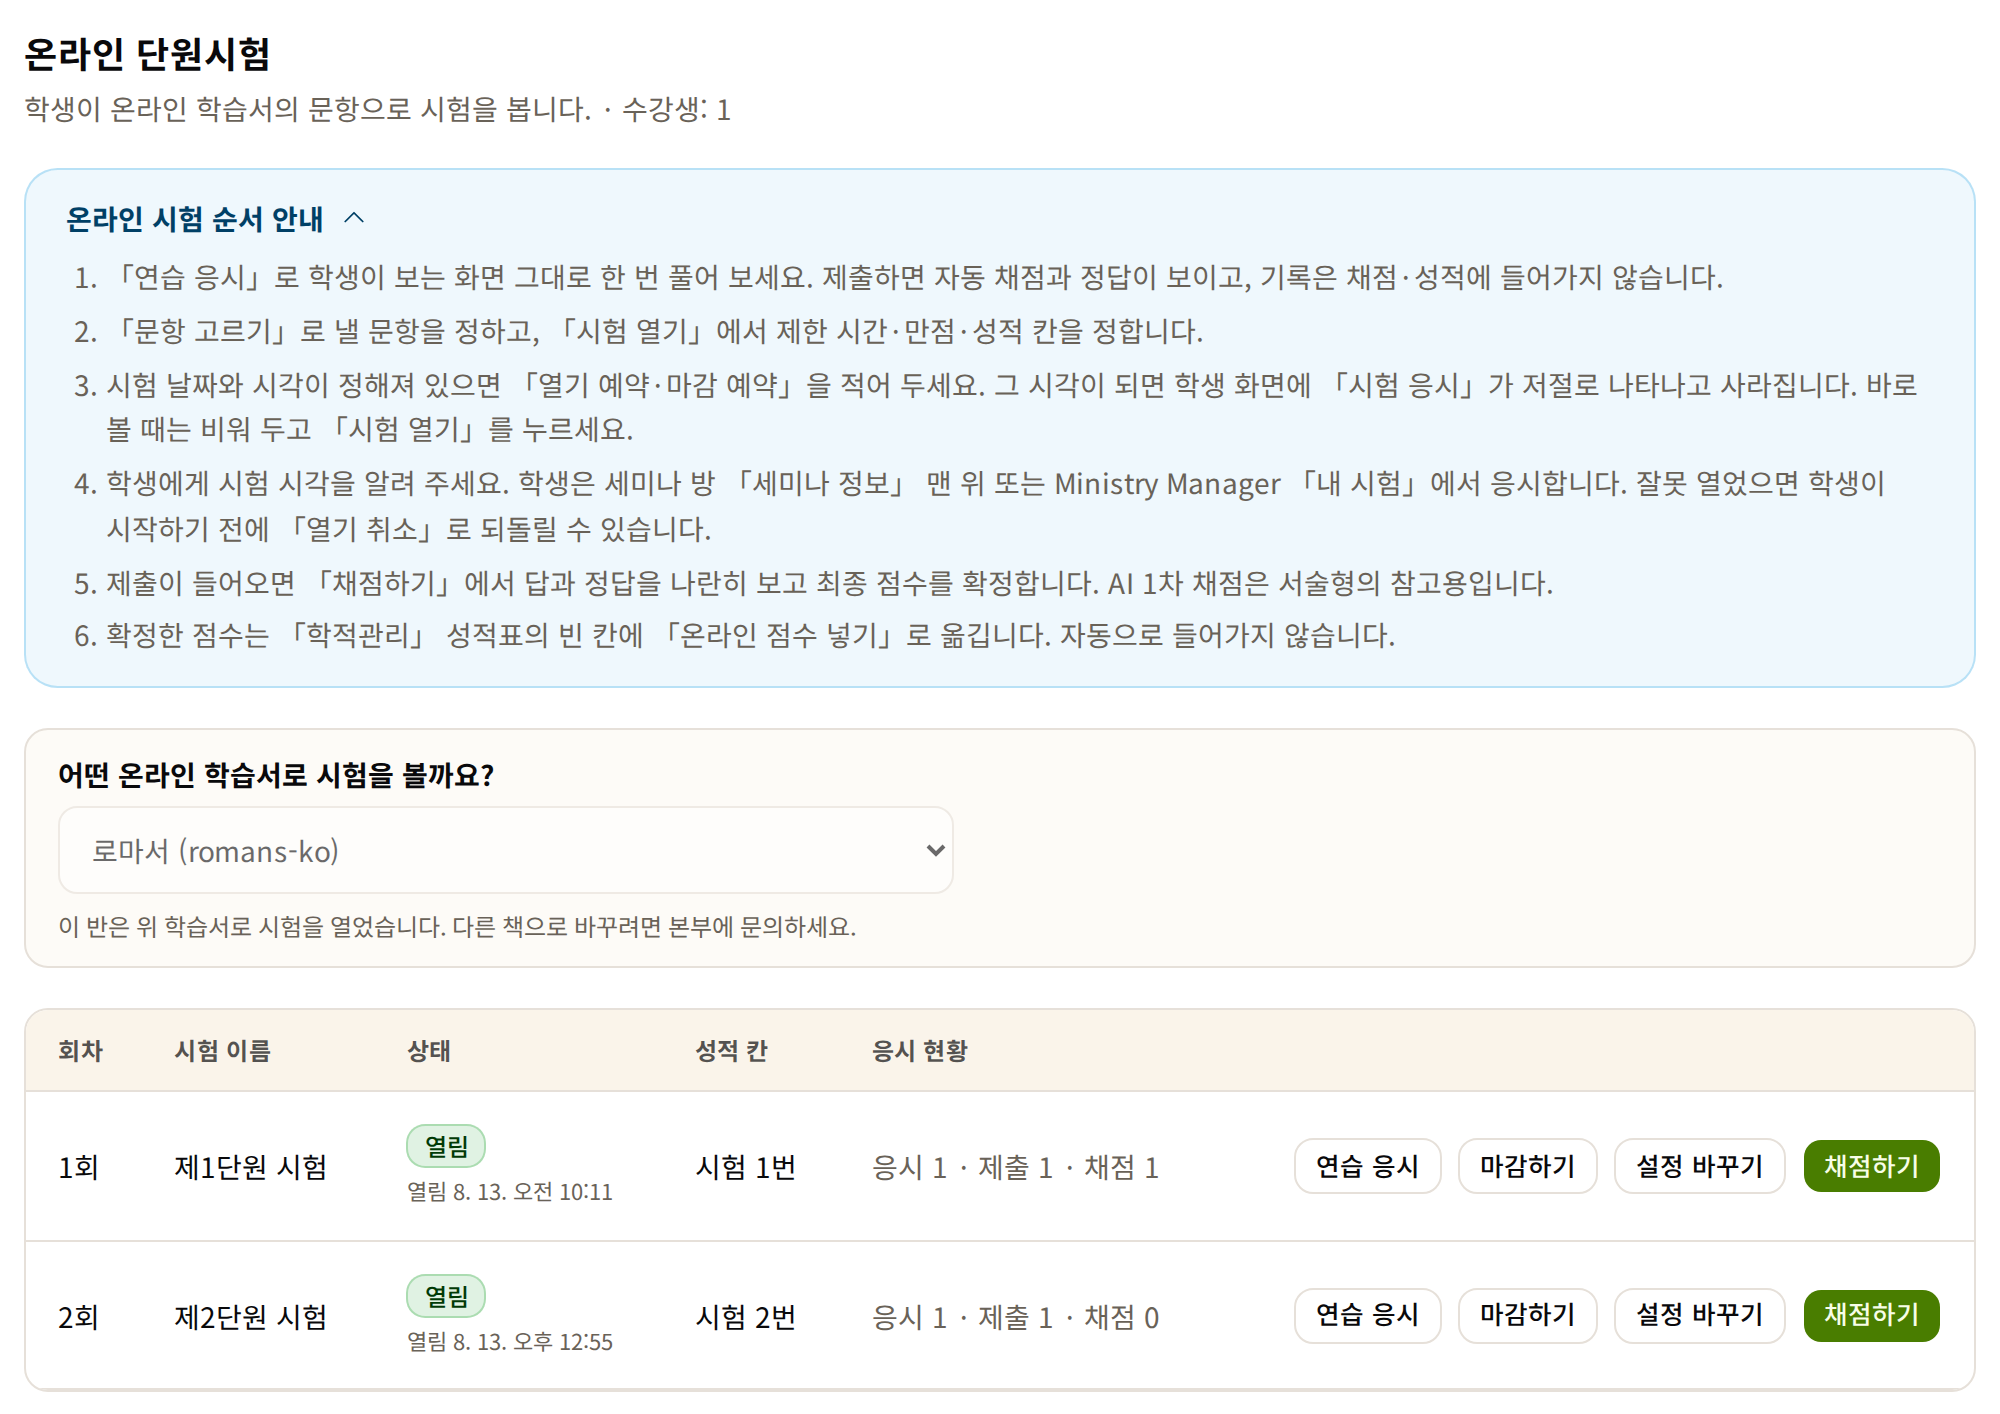
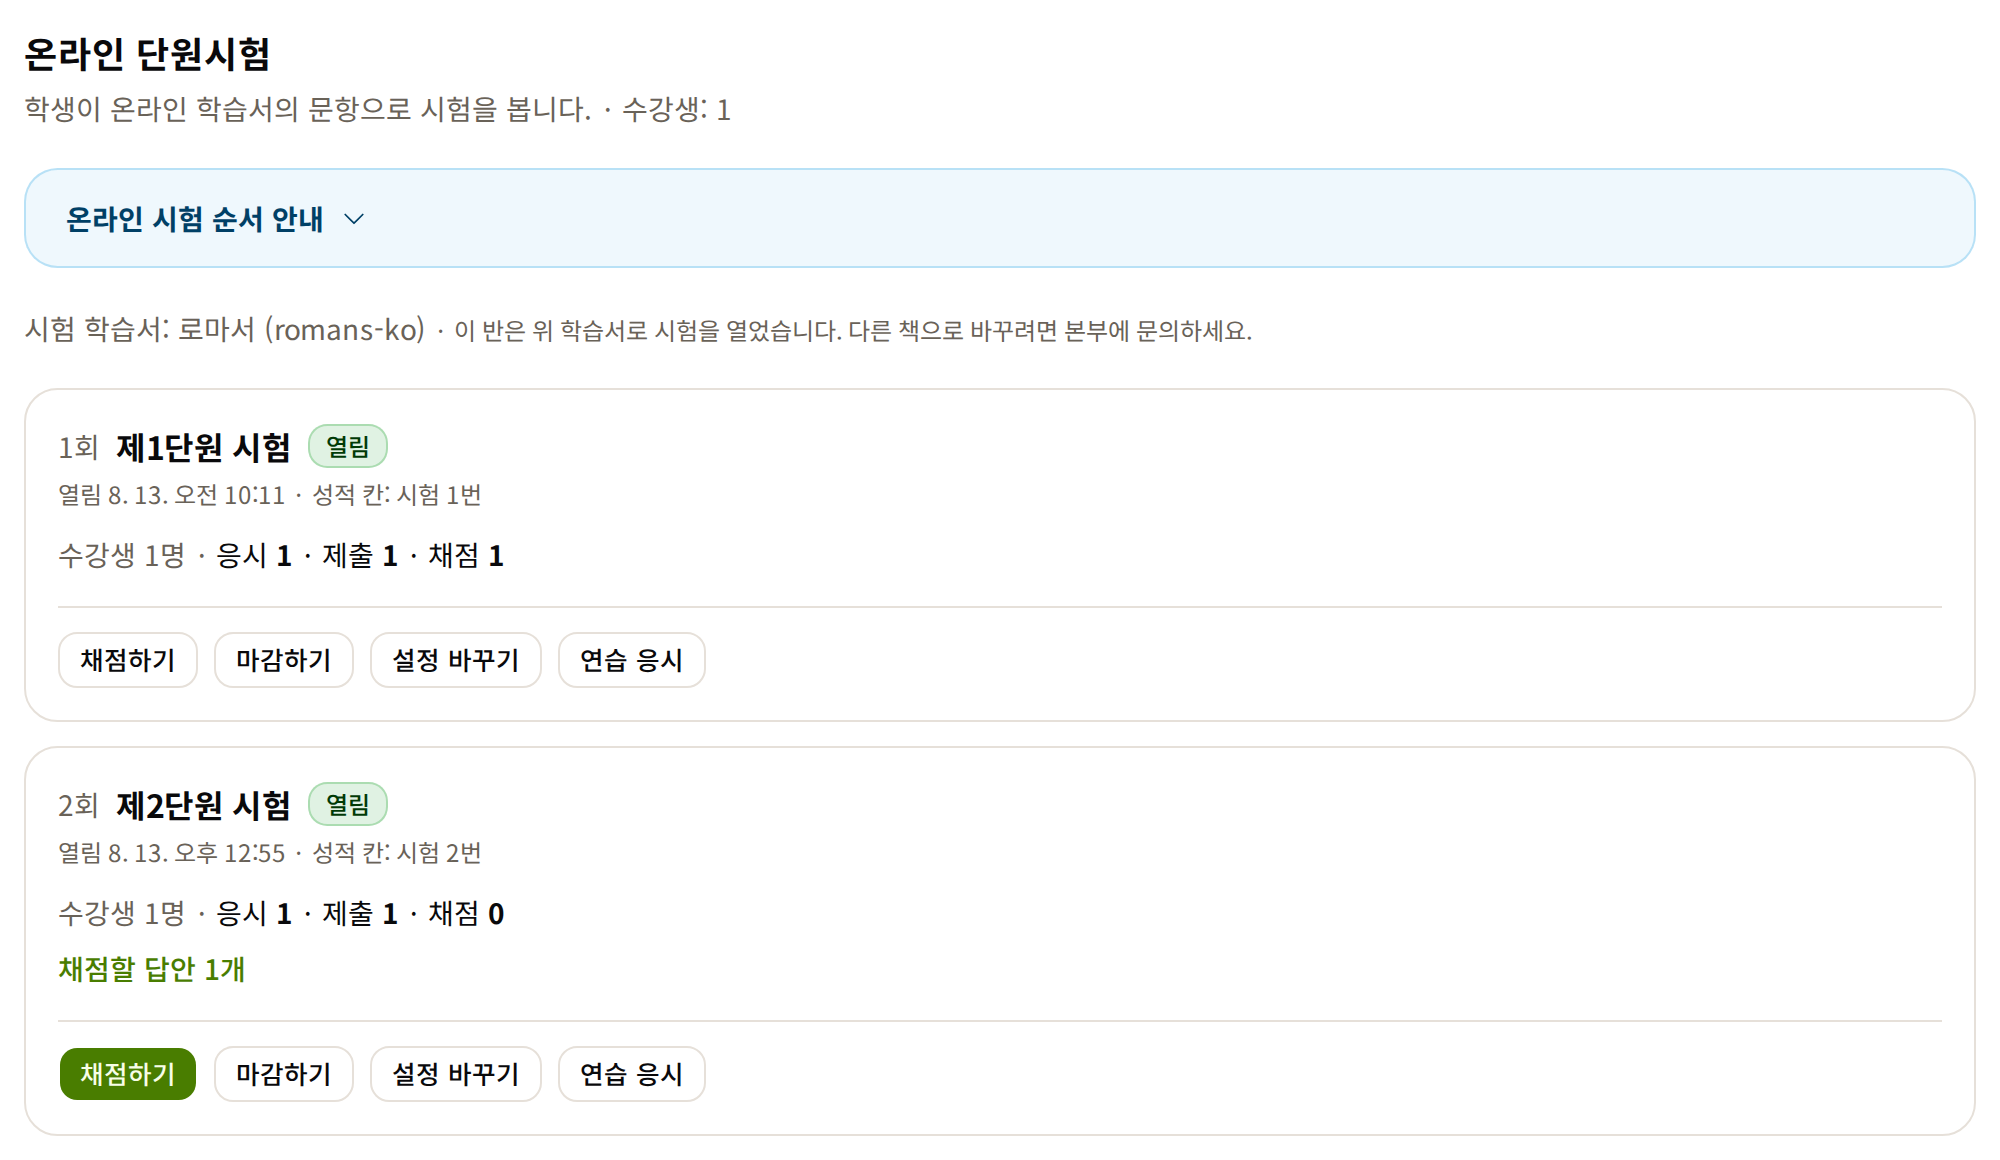
인도자 안내: 온라인 시험 — 회차별 카드 · 성적표 「N명 넣기」 화면으로 다시 (같은 날 LMS 변경 14cb8d3e·7450a8fc 반영) · LMS 안의 링크 안내

diff --git a/lms/exam-guide.html b/lms/exam-guide.html
@@ -300,7 +300,7 @@
       <li id="score">
         <span class="sym">점수를 확정했는데 성적표에 없음</span>
         <span class="why">확정한 점수는 성적표에 <strong>저절로 들어가지 않습니다</strong>.</span>
-        <span class="do">「학적관리」 → 「시험」 → 빈 칸 아래 <span class="btn">온라인 ○○ 넣기</span> (아래 <a href="#fill">4번</a>)</span>
+        <span class="do">「학적관리」 → 「시험」 → 초록 상자의 <span class="btn btn-go">N명 넣기</span> (아래 <a href="#fill">4번</a>)</span>
       </li>
       <li id="retake">
         <span class="sym">학생이 실수로 일찍 제출함</span>
@@ -319,7 +319,7 @@
     <ol class="steps3">
       <li>세미나 방 → <strong>「온라인 시험」</strong> 탭 (인도자에게만 시험을 여는 자리로 보입니다)</li>
       <li>그 회차의 <span class="btn btn-go">시험 열기</span> — 날짜가 정해져 있으면 「열기 예약」에 날짜·시각을 적습니다</li>
-      <li>시험이 끝나면 <span class="btn">마감하기</span> → <span class="btn btn-go">채점하기</span> → 「학적관리」에서 <span class="btn">온라인 ○○ 넣기</span></li>
+      <li>시험이 끝나면 <span class="btn">마감하기</span> → <span class="btn btn-go">채점하기</span> → 「학적관리」 → 「시험」에서 <span class="btn btn-go">N명 넣기</span></li>
     </ol>
     <p style="margin-top:0.8rem">
       <strong>종이 학습서로 공부하는 반도 됩니다</strong> — 같은 과목의 온라인 학습서 문항으로 시험만 온라인으로 엽니다.
@@ -335,13 +335,13 @@
     <p>
       처음 들어가면 <strong>어떤 학습서로 시험을 볼지</strong> 묻습니다 — 우리 반 과목에 맞는 책이 미리 골라져 있습니다.
       한 번 열면 그 책으로 고정되고, 바꾸려면 본부에 문의합니다.
-      탭 맨 위의 「온라인 시험 순서 안내」는 이 안내를 줄인 것입니다.
+      탭 맨 위의 「온라인 시험 순서 안내」(눌러서 펼침)는 이 안내를 줄인 것이고, 끝에 이 페이지로 오는 링크가 있습니다.
     </p>
 
     <figure>
-      <img src="assets/exam-ft-tab.png" alt="인도자의 온라인 시험 탭 — 순서 안내 상자, 학습서 선택, 회차별 표. 각 줄에 상태(열림), 성적 칸, 응시 현황과 연습 응시·마감하기·설정 바꾸기·채점하기 버튼">
-      <figcaption>인도자의 「온라인 시험」 탭. 회차마다 <strong>상태 · 성적 칸 · 응시 현황</strong>이 보입니다.
-        상태가 <strong>「아직 안 열림」</strong>이면 <strong>[시험 열기]</strong>, 「열림」이면 <strong>[마감하기] [설정 바꾸기] [채점하기]</strong>가 나옵니다.</figcaption>
+      <img src="assets/exam-ft-tab.png" alt="인도자의 온라인 시험 탭 — 접힌 순서 안내, 시험 학습서 한 줄, 회차별 카드. 카드마다 상태(열림), 연 시각, 성적 칸, 응시·제출·채점 수, 채점할 답안 1개, 채점하기·마감하기·설정 바꾸기·연습 응시 버튼">
+      <figcaption>인도자의 「온라인 시험」 탭. 회차마다 카드 한 장 — <strong>상태 · 성적 칸 · 응시 현황</strong>, 채점할 답이 있으면 <strong>「채점할 답안 N개」</strong>.
+        상태가 <strong>「아직 안 열림」</strong>이면 <strong>[시험 열기]</strong>, 「열림」이면 <strong>[채점하기] [마감하기] [설정 바꾸기]</strong>가 나옵니다.</figcaption>
     </figure>
 
     <p><span class="btn btn-go">시험 열기</span>를 누르면 설정 창이 뜹니다. 연 뒤에도 <span class="btn">설정 바꾸기</span>로 같은 창을 엽니다.</p>
@@ -455,12 +455,13 @@
     <span class="stage-who">인도자</span>
     <h2>확정한 점수를 성적표로 옮깁니다 — 저절로 들어가지 않습니다</h2>
     <p>
-      「학적관리」 → <strong>「시험」</strong>을 엽니다. 시험 칸 머리에 <strong>「← 제1단원 시험」</strong>처럼 어느 온라인 시험과 이어졌는지 보이고,
-      확정한 점수가 있는 <strong>빈 칸</strong> 아래에 <span class="btn">온라인 ○○ 넣기</span>가 나옵니다. 누르면 그 칸에 들어갑니다.
+      「학적관리」 → <strong>「시험」</strong>을 엽니다. 넣을 점수가 있으면 위에 초록 상자가 뜨고, 시험마다 <strong>「들어갈 점수」</strong>를 먼저 보여 줍니다.
+      맞으면 <span class="btn btn-go">N명 넣기</span> — 그 시험의 확정 점수가 <strong>빈 칸에만</strong> 들어갑니다. 한 사람씩은 칸 아래 <span class="btn">온라인 ○○ 넣기</span>.
     </p>
     <figure>
-      <img src="assets/exam-ft-records.png" alt="학적관리 시험 탭 — 시험 1·시험 2 칸 머리에 제1단원 시험·제2단원 시험 표시, 시험 1 칸에 42, 비어 있는 시험 2 칸 아래 온라인 88/100 넣기 버튼">
-      <figcaption>「학적관리」 → 「시험」. 이미 적어 둔 점수(시험 1 의 42)는 건드리지 않고, 빈 칸에만 <strong>[온라인 ○○ 넣기]</strong>가 나옵니다.
+      <img src="assets/exam-ft-records.png" alt="학적관리 시험 탭 — 위 초록 상자: 온라인 시험 점수를 빈 칸에 넣을 수 있습니다, 제2단원 시험 들어갈 점수 88점과 1명 넣기 버튼. 아래 성적표: 시험 1 칸 42, 비어 있는 시험 2 칸 아래 온라인 88/100 넣기">
+      <figcaption>「학적관리」 → 「시험」. 이미 적어 둔 점수(시험 1 의 42)는 건드리지 않고, 빈 칸만 채웁니다.
+        「들어갈 점수」가 이상하면(예: 모두 20점 안팎) 누르지 말고 칸에 직접 적으십시오.
         <span class="ex">(「88/100」은 버튼 모양을 보여 드리려고 넣은 예시입니다.)</span></figcaption>
     </figure>
     <p>

diff --git a/lms/instructor-guide.html b/lms/instructor-guide.html
@@ -311,7 +311,7 @@
     <ul>
       <li>학생 화면에 <strong>「아직 열리지 않음」</strong>(예전 「응시 기간 아님」) — 인도자가 시험을 아직 안 열었습니다 → <a href="exam-guide.html#not-open">시험 여는 법</a></li>
       <li>학생 화면에 <strong>「이 반에는 아직 온라인 시험이 없습니다」</strong> → <a href="exam-guide.html#no-exam">시험 여는 법</a></li>
-      <li>온라인 시험 점수가 <strong>성적표에 안 들어감</strong> → <a href="exam-guide.html#score">「온라인 ○○ 넣기」</a></li>
+      <li>온라인 시험 점수가 <strong>성적표에 안 들어감</strong> → <a href="exam-guide.html#score">「학적관리 → 시험 → N명 넣기」</a></li>
       <li>명단에 <strong>「입금 확인 중」</strong> → <a href="#s2">2번 — 수강료 미납자 확인</a></li>
     </ul>
   </section>
@@ -821,7 +821,7 @@
     <ol>
       <li>세미나 방 → <strong>「온라인 시험」</strong> 탭</li>
       <li>그 회차의 <span class="btn btn-go">시험 열기</span> — 날짜가 정해져 있으면 「열기 예약」에 날짜·시각을 적습니다</li>
-      <li>끝나면 <span class="btn">마감하기</span> → <span class="btn btn-go">채점하기</span> → 「학적관리」 → 「시험」에서 <span class="btn">온라인 ○○ 넣기</span> (점수는 저절로 들어가지 않습니다)</li>
+      <li>끝나면 <span class="btn">마감하기</span> → <span class="btn btn-go">채점하기</span> → 「학적관리」 → 「시험」에서 <span class="btn btn-go">N명 넣기</span> (점수는 저절로 들어가지 않습니다)</li>
     </ol>
     <p>학생은 세미나 방 맨 위 초록 상자 「온라인 시험이 열렸습니다」에서 <span class="btn btn-go">시험 응시</span>를 누릅니다.</p>
     <div class="flag">
